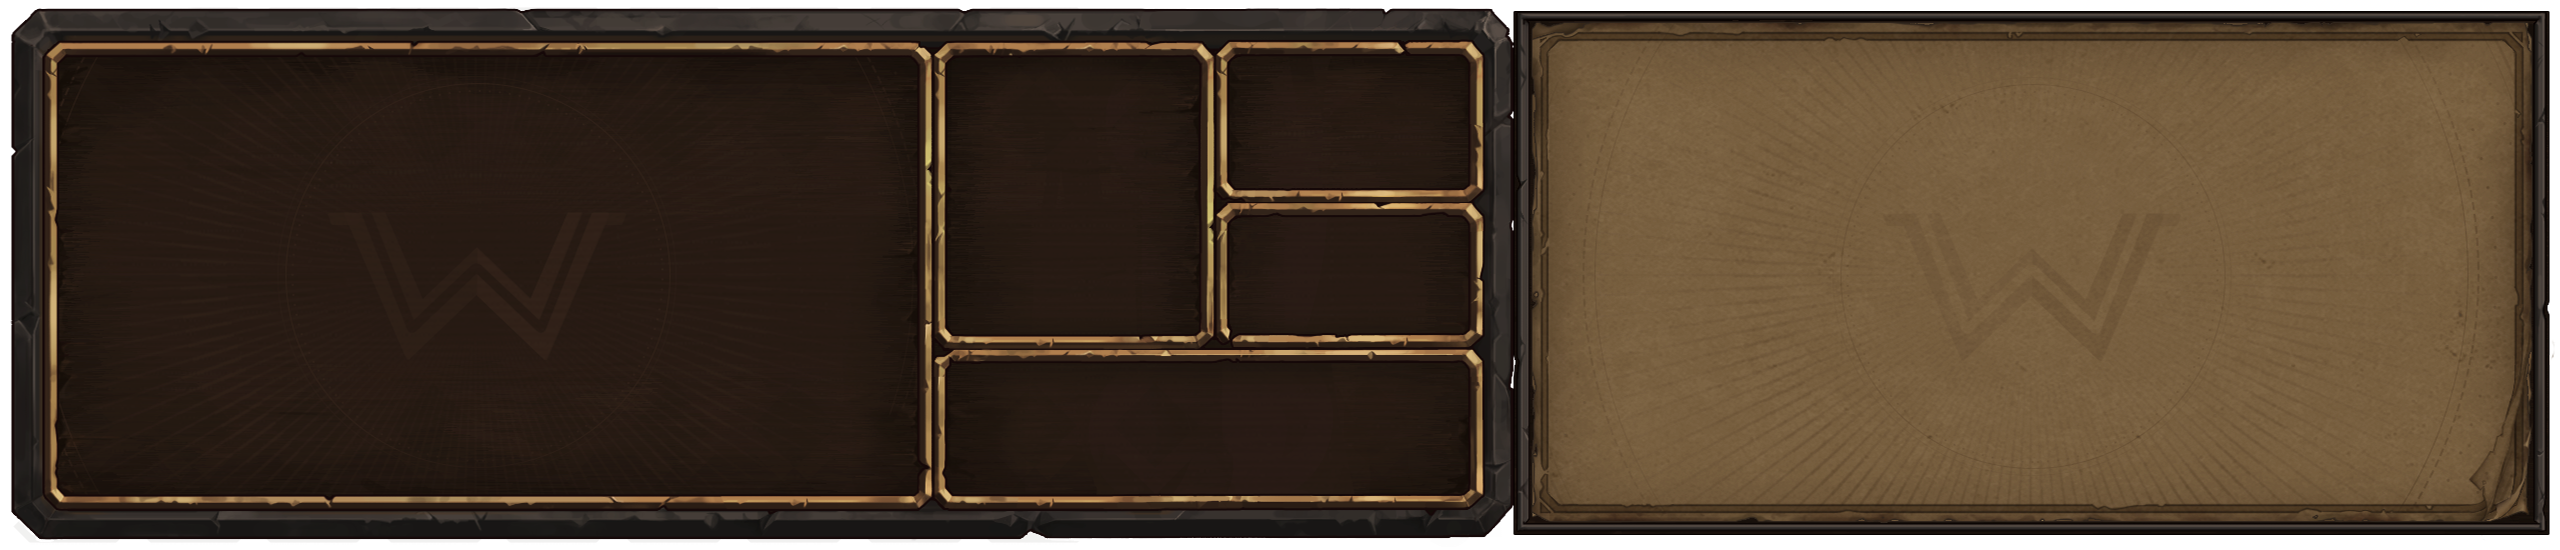
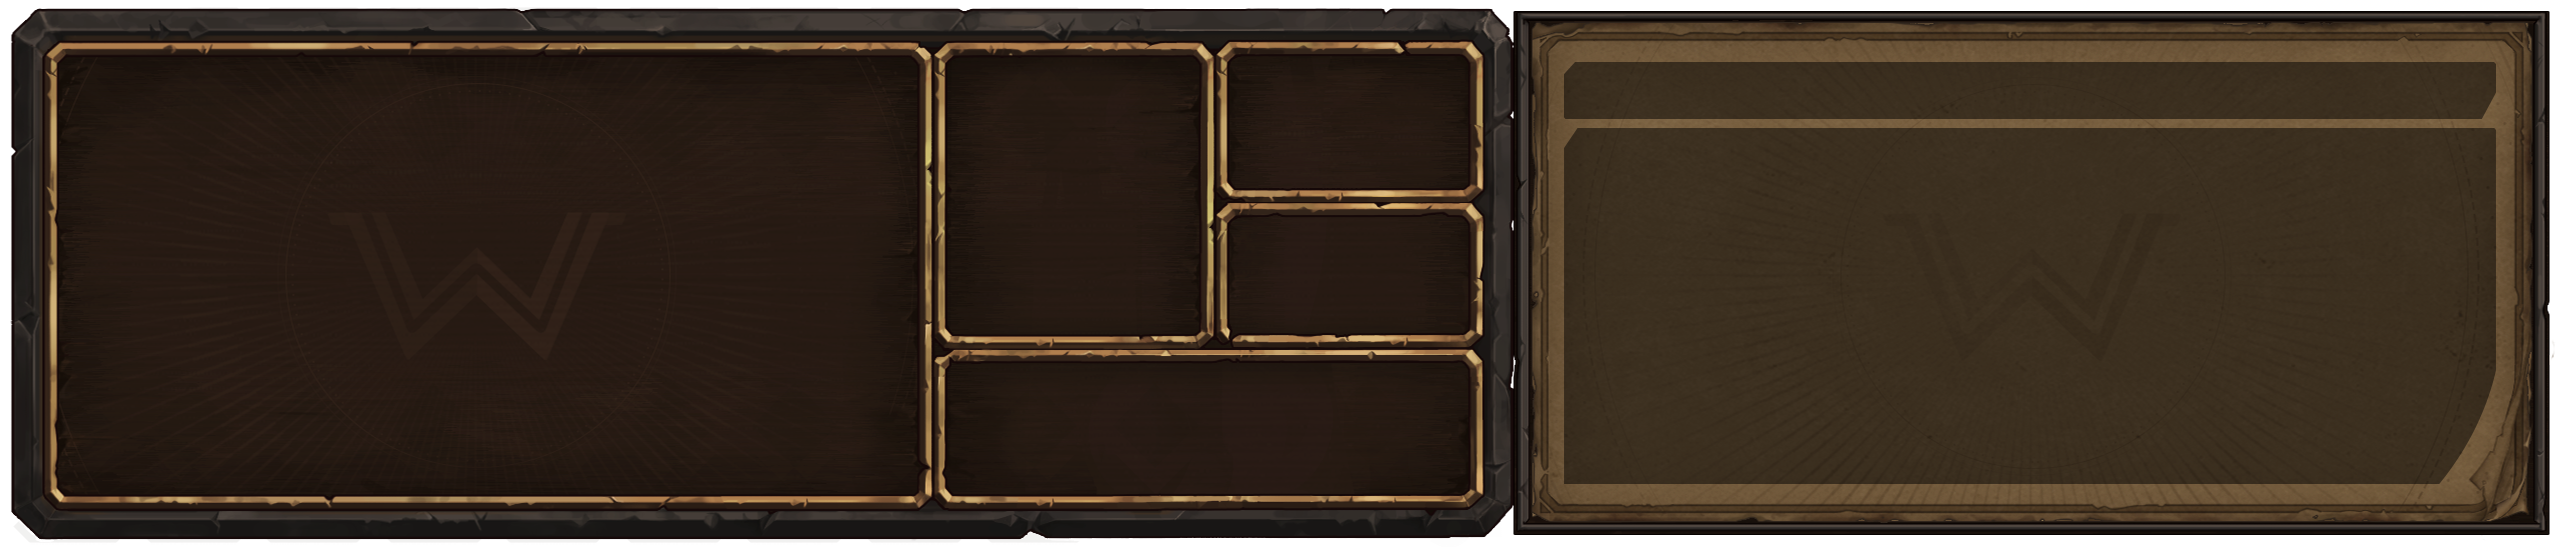
변경중

Changed region(s): [[0.5938, 0.0927, 1.0, 0.8964]]

diff --git a/core/src/com/fastcat/labyrintale/screens/charselect/CharSelectScreen.java b/core/src/com/fastcat/labyrintale/screens/charselect/CharSelectScreen.java
@@ -165,7 +165,6 @@ public class CharSelectScreen extends AbstractScreen {
         public HealthIcon health;
         public CharStatIcon[] stats;
         public AbstractUI.TempUI job;
-        public AbstractUI.TempUI jobBg;
         public AbstractUI.TempUI charLine;
         public CharInfoItemButton passive;
         public CharInfoItemButton[] skills = new CharInfoItemButton[3];
@@ -203,8 +202,6 @@ public class CharSelectScreen extends AbstractScreen {
             charLine.setPosition(1474 * scale, 1076 * scale);
             job = new AbstractUI.TempUI(FileHandler.getUi().get("JOB_DEF"));
             job.setPosition(1571 * scale, 1103 * scale);
-            jobBg = new AbstractUI.TempUI(FileHandler.getUi().get("JOB_DEF_B"));
-            jobBg.setPosition(1400 * scale, 450 * scale);
         }
 
         public void setPlayer(AbstractPlayer player) {
@@ -220,7 +217,6 @@ public class CharSelectScreen extends AbstractScreen {
             cw = player.bg.getWidth() * scale;
             ch = player.bg.getHeight() * scale;
             job.img = FileHandler.getUi().get("JOB_" + player.job);
-            jobBg.img = FileHandler.getUi().get("JOB_" + player.job + "_B");
         }
 
         public void update() {
@@ -236,7 +232,6 @@ public class CharSelectScreen extends AbstractScreen {
 
         public void render(SpriteBatch sb) {
             sb.setColor(Color.WHITE);
-            jobBg.render(sb);
             sb.draw(player.bg, bgx, bgy, cw, ch);
             job.render(sb);
             renderLineLeft(sb, nData, player.name, nx, ny, ny, 0);

diff --git a/core/src/com/fastcat/labyrintale/screens/rest/RestScreen.java b/core/src/com/fastcat/labyrintale/screens/rest/RestScreen.java
@@ -67,7 +67,7 @@ public class RestScreen extends AbstractScreen {
         b.setPosition(tw - b.sWidth / 2, h * 0.7f - b.sHeight / 2);
 
         RestDesc d = desc[cnt] = new RestDesc("휴식", b);
-        d.setPosition(tw - d.sWidth / 2, b.y);
+        d.setPosition(tw - d.sWidth / 2, b.y - 100 * InputHandler.scale);
 
         if (count > 2) {
             tw += tww;
@@ -77,7 +77,7 @@ public class RestScreen extends AbstractScreen {
             b3.setPosition(tw - b3.sWidth / 2, h * 0.77f - b3.sHeight / 2);
 
             RestDesc d3 = desc[cnt] = new RestDesc("소생", b3);
-            d3.setPosition(tw - d3.sWidth / 2, b3.y);
+            d3.setPosition(tw - d3.sWidth / 2, b3.y - 100 * InputHandler.scale);
         } else {
             tw += tww;
         }
@@ -89,8 +89,7 @@ public class RestScreen extends AbstractScreen {
         b2.setPosition(tw - b2.sWidth / 2, h * 0.7f - b2.sHeight / 2);
 
         RestDesc d2 = desc[cnt] = new RestDesc("단련", b2);
-        d2.setPosition(tw - d2.sWidth / 2, b2.y);
-        setBg(AbstractLabyrinth.curBg);
+        d2.setPosition(tw - d2.sWidth / 2, b2.y - 100 * InputHandler.scale);
     }
 
     @Override

diff --git a/core/src/com/fastcat/labyrintale/handlers/FileHandler.java b/core/src/com/fastcat/labyrintale/handlers/FileHandler.java
@@ -372,9 +372,6 @@ public class FileHandler implements Disposable {
         resourceNames.put("JOB_DEF", "img/ui/job_def.png");
         resourceNames.put("JOB_ATK", "img/ui/job_atk.png");
         resourceNames.put("JOB_SUP", "img/ui/job_sup.png");
-        resourceNames.put("JOB_DEF_B", "img/ui/job_def_big.png");
-        resourceNames.put("JOB_ATK_B", "img/ui/job_atk_big.png");
-        resourceNames.put("JOB_SUP_B", "img/ui/job_sup_big.png");
         resourceNames.put("REST_HEAL", "img/ui/rest_heal.png");
         resourceNames.put("REST_REVIVE", "img/ui/rest_revive.png");
         resourceNames.put("REST_UPGRADE", "img/ui/rest_upgrade.png");

diff --git a/core/src/com/fastcat/labyrintale/uis/control/ItemPanel.java b/core/src/com/fastcat/labyrintale/uis/control/ItemPanel.java
@@ -47,7 +47,7 @@ public class ItemPanel extends AbstractUI {
             if (item != null) {
                 sb.draw(item.img, x, y, sWidth, sHeight);
                 if(adv) {
-                    FontHandler.renderCenter(sb, FontHandler.GOMEM, item.name, x, y - 23 * InputHandler.scale, sWidth, sHeight);
+                    FontHandler.renderCenter(sb, FontHandler.GOMEM, item.name, x, y - 22 * InputHandler.scale, sWidth, sHeight);
                 } else if (item.rarity != AbstractItem.ItemRarity.STARTER) {
                     sb.setColor(item.getRarityColor());
                     sb.draw(img, x, y, sWidth, sHeight);

diff --git a/core/src/com/fastcat/labyrintale/Labyrintale.java b/core/src/com/fastcat/labyrintale/Labyrintale.java
@@ -446,6 +446,7 @@ public class Labyrintale extends Game {
                         else addTempScreen(nextScreen);
                         nextScreen = null;
                         fadeIn = true;
+                        SoundHandler.playSfx("BATTLE");
                     } else fading = false;
                 }
                 fadeTex.draw(sb, alphaCount);
@@ -580,6 +581,7 @@ public class Labyrintale extends Game {
 
     public static void openTutorial(TutorialScreen.TutorialType type) {
         tutorialScreen.setType(type);
+        tutorialScreen.close.clickable = false;
         tutorial = true;
     }
 

diff --git a/core/src/com/fastcat/labyrintale/handlers/SoundHandler.java b/core/src/com/fastcat/labyrintale/handlers/SoundHandler.java
@@ -61,6 +61,7 @@ public final class SoundHandler implements Disposable {
         sfx.put("GUN", getSound("sound/sfx/gun.ogg"));
         sfx.put("STATIC", getSound("sound/sfx/static.ogg"));
         sfx.put("NEUT", getSound("sound/sfx/neut.ogg"));
+        sfx.put("BATTLE", getSound("sound/sfx/battle.ogg"));
         sfx.put("CHANGE", getSound("sound/sfx/change.ogg"));
         sfx.put("CHANGE_DOOR", getSound("sound/sfx/change_door.ogg"));
     }

diff --git a/core/src/com/fastcat/labyrintale/uis/control/InfoPanel.java b/core/src/com/fastcat/labyrintale/uis/control/InfoPanel.java
@@ -60,7 +60,7 @@ public class InfoPanel extends AbstractUI {
         bny = 445 * scale;
         bdx = 1000 * scale;
         bdy = 390 * scale;
-        bnw = bdw = 1000 * InputHandler.scale;
+        bnw = bdw = 930 * InputHandler.scale;
         bnh = 60 * InputHandler.scale;
         bdh = 60 * InputHandler.scale;
 

diff --git a/core/src/com/fastcat/labyrintale/uis/PlayerInfoButton.java b/core/src/com/fastcat/labyrintale/uis/PlayerInfoButton.java
@@ -16,6 +16,7 @@ public class PlayerInfoButton extends AbstractUI {
     public PlayerInfoButton() {
         super(FileHandler.getUi().get("STAT_PLUS"));
         fontData = CARD_BIG_DESC;
+        subs.add(new SubText("플레이어 정보", "모든 플레이어의 정보를 열람합니다."));
     }
 
     @Override

diff --git a/core/src/com/fastcat/labyrintale/skills/player/burger/HolySmite.java b/core/src/com/fastcat/labyrintale/skills/player/burger/HolySmite.java
@@ -14,7 +14,7 @@ public class HolySmite extends AbstractSkill {
 
     public HolySmite(AbstractEntity e) {
         super(e, ID, TYPE, RARITY, TARGET);
-        setBaseAttack(ATK, 2);
+        setBaseAttack(ATK, 1);
         setBaseCost(2);
     }
 

diff --git a/core/src/com/fastcat/labyrintale/uis/MapButton.java b/core/src/com/fastcat/labyrintale/uis/MapButton.java
@@ -14,6 +14,7 @@ public class MapButton extends AbstractUI {
 
     public MapButton() {
         super(FileHandler.getUi().get("MAP"));
+        subs.add(new SubText("지도", "지도를 펼칩니다."));
     }
 
     @Override

diff --git a/core/src/com/fastcat/labyrintale/abstracts/AbstractUI.java b/core/src/com/fastcat/labyrintale/abstracts/AbstractUI.java
@@ -216,7 +216,7 @@ public abstract class AbstractUI implements Disposable {
     }
 
     protected Array<SubText> getSubText() {
-        return new Array<>();
+        return subs;
     }
 
     public void setX(float x) {

diff --git a/core/src/com/fastcat/labyrintale/uis/PlayerBigIcon.java b/core/src/com/fastcat/labyrintale/uis/PlayerBigIcon.java
@@ -33,6 +33,7 @@ public class PlayerBigIcon extends AbstractUI {
         hy = 21 * scale;
         hw = 162 * scale;
         hh = 26 * scale;
+        clickable = false;
     }
 
     @Override
